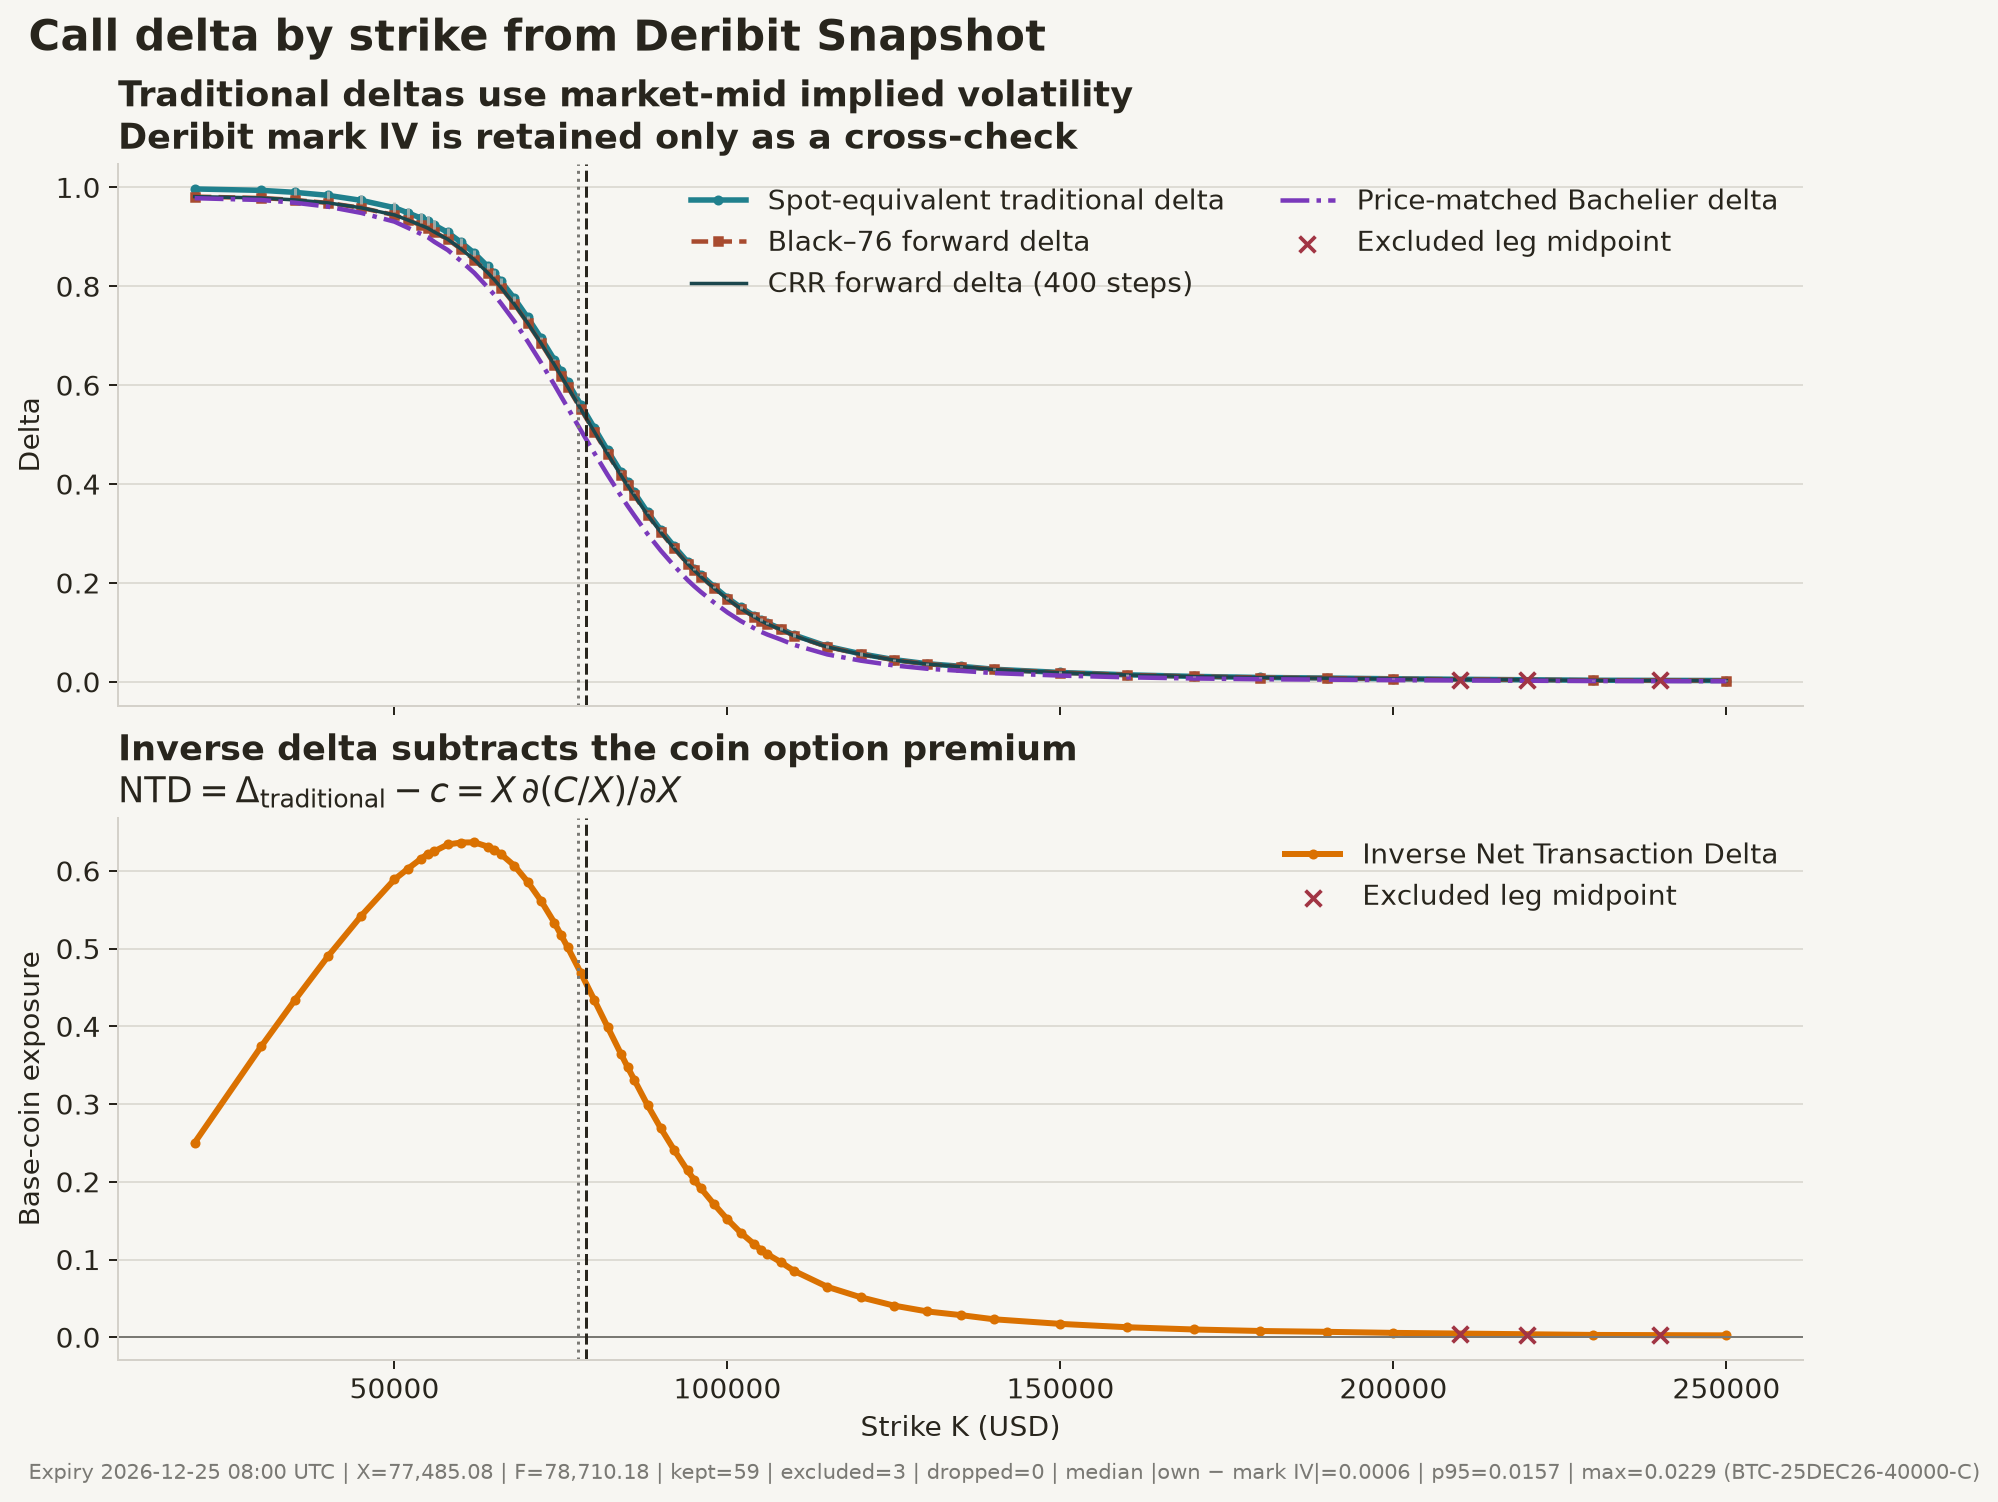
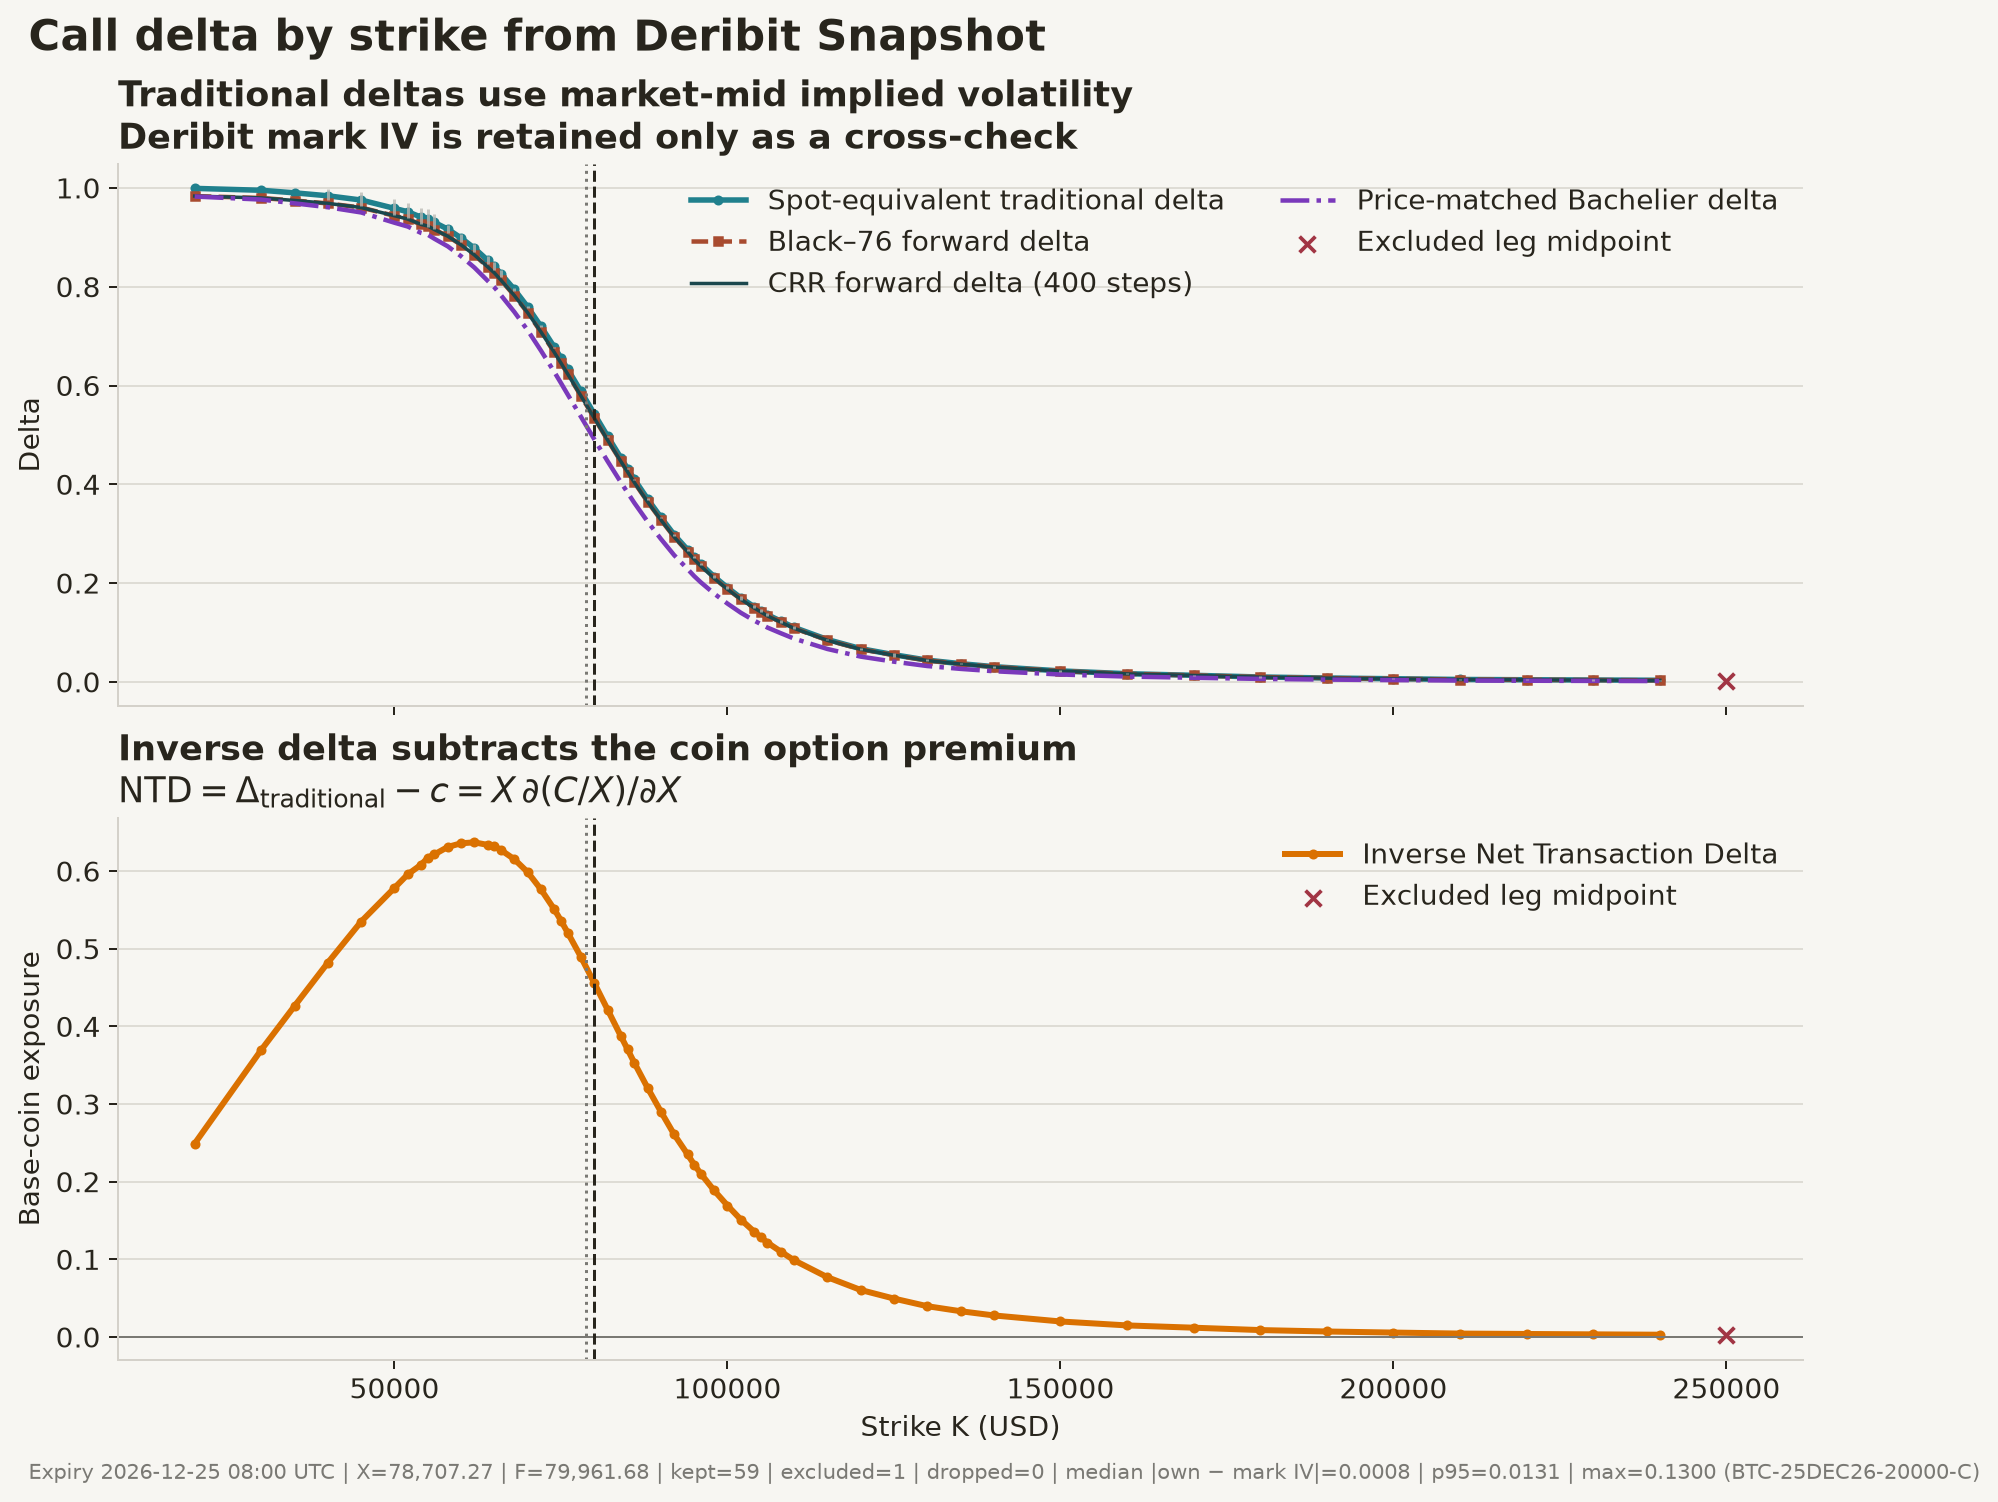
M2

diff --git a/deribit/segmentation.py b/deribit/segmentation.py
@@ -298,21 +298,37 @@ class LiquidityGroupMetrics:
 
 def build_liquidity_segmentation(
     evaluated_pairs: Sequence[EvaluatedPair],
+    expiry_forwards: Sequence[ExpiryForward],
 ) -> tuple[LiquidityGroupMetrics, ...]:
-    """Segment all pairs cross-sectionally by snapshot-relative liquidity groups."""
+    """Segment all pairs cross-sectionally by snapshot-relative liquidity groups with residuals."""
     if not evaluated_pairs:
         return ()
 
+    forward_by_expiry = {
+        (
+            expiry.underlying_index,
+            expiry.expiration_timestamp,
+        ): expiry.implied_forward
+        for expiry in expiry_forwards
+    }
+
+    missing_volume = []
     zero_vol = []
     pos_vol = []
     for item in evaluated_pairs:
         vol = observed_pair_sum(item.pair.call.volume, item.pair.put.volume)
-        if vol is None or vol == 0.0:
+        if vol is None:
+            missing_volume.append(item)
+        elif vol == 0.0:
             zero_vol.append(item)
         else:
             pos_vol.append((vol, item))
 
-    groups = [("Zero Volume", zero_vol)]
+    groups = []
+    if missing_volume:
+        groups.append(("Missing Volume Data", missing_volume))
+    if zero_vol:
+        groups.append(("Zero Observed Volume", zero_vol))
 
     if pos_vol:
         pos_vol.sort(key=lambda x: x[0])
@@ -335,16 +351,20 @@ def build_liquidity_segmentation(
         if count == 0:
             continue
         eligible = [item for item in items if item.diagnostic_eligible]
-        
+
         spreads = [
             s for item in items
             for s in (relative_spread(item.pair.call), relative_spread(item.pair.put))
             if s is not None
         ]
-        residuals = [
-            abs(item.point.forward_mid - item.pair.call.index_price) # baseline or ref
-            for item in eligible if item.point.forward_mid is not None
-        ]
+
+        residuals = []
+        for item in eligible:
+            key = (item.pair.underlying_index, item.pair.expiration_timestamp)
+            ref_fwd = forward_by_expiry.get(key)
+            if ref_fwd is not None and item.point.forward_mid is not None:
+                residuals.append(abs(item.point.forward_mid - ref_fwd))
+
         widths = [
             item.point.synthetic_buy_forward - item.point.synthetic_sell_forward
             for item in items

diff --git a/benchmarks/forward_curve_plot.py b/benchmarks/forward_curve_plot.py
@@ -7,7 +7,7 @@ from pathlib import Path
 import matplotlib.dates as mdates
 import matplotlib.pyplot as plt
 import numpy as np
-from benchmarks.chain_report import format_accounting_report
+from benchmarks.chain_report import format_accounting_report, format_expiry_comparison_table
 from deribit.config import SnapshotUniversalConfig
 from deribit.forward_curve import *
 from deribit.forwards import BasisStatus
@@ -315,6 +315,24 @@ def plot_forward_curve(
         figure.savefig(output, dpi=180, bbox_inches="tight")
         plt.close(figure)
 
+
+def print_snapshot_provenance(snapshot: dict) -> None:
+    opt_ns = snapshot.get("options", {}).get("received_at_ns")
+    fut_ns = snapshot.get("futures", {}).get("received_at_ns")
+    idx_ns = snapshot.get("index", {}).get("received_at_ns")
+
+    print("\n=== SNAPSHOT PROVENANCE & TIMING ===")
+    if opt_ns and fut_ns and idx_ns:
+        diff_ms = (fut_ns - opt_ns) / 1_000_000.0
+        window_ms = (max(opt_ns, fut_ns, idx_ns) - min(opt_ns, fut_ns, idx_ns)) / 1_000_000.0
+        print(f"Options Summary Received: {opt_ns}")
+        print(f"Futures Summary Received: {fut_ns}")
+        print(f"Options-to-Futures Delta: {diff_ms:+.2f} ms")
+        print(f"Total Snapshot Capture Window: {window_ms:.2f} ms")
+    else:
+        print("Timestamp provenance metadata incomplete in snapshot payload.")
+
+
 def parse_args() -> argparse.Namespace:
     parser = argparse.ArgumentParser(
         description="Build and plot an inverse-option forward curve."
@@ -351,7 +369,9 @@ if __name__ == "__main__":
         raise SystemExit(f"Snapshot {snapshot_id} does not exist")
 
     result = build_forward_curve(snapshot)
+    print_snapshot_provenance(snapshot)
     print("\n" + format_accounting_report(result))
+    print("\n" + format_expiry_comparison_table(result))
 
     print("\n=== MONEYNESS SEGMENTATION (ALL EXPIRIES) ===")
     for expiry_forward in result.expiry_forwards:
@@ -362,7 +382,7 @@ if __name__ == "__main__":
         print(f"\nExpiry: {expiry_forward.underlying_index}")
         print(format_moneyness_table(metrics))
 
-    liq_metrics = build_liquidity_segmentation(result.evaluated_pairs)
+    liq_metrics = build_liquidity_segmentation(result.evaluated_pairs, result.expiry_forwards)
     if liq_metrics:
         print("\n=== LIQUIDITY GROUP SEGMENTATION ===")
         print(

diff --git a/benchmarks/chain_report.py b/benchmarks/chain_report.py
@@ -51,3 +51,45 @@ def format_accounting_report(result: ForwardCurveResult) -> str:
         lines.append(f"{fc.reason:<30} {fc.pair_count:<8} {fc.fraction:.2%}      {impact:<25}")
 
     return "\n".join(lines)
+
+def format_expiry_comparison_table(result: ForwardCurveResult) -> str:
+    lines = [
+        "\n=== EXPIRY FORWARD VS FUTURE COMPARISON TABLE ===",
+        f"{'Expiry':<16} {'Pairs':<5} {'Opt Fwd':<10} {'Fut Bid':<10} {'Fut Mid':<10} "
+        f"{'Fut Mark':<10} {'Fut Ask':<10} {'Bps(Mid)':<9} {'Bps(Mark)':<10} "
+        f"{'MAD':<7} {'Status':<18}",
+        "-" * 115,
+    ]
+
+    for comp in result.comparisons:
+        ef = next(
+            f for f in result.expiry_forwards
+            if (f.underlying_index, f.expiration_timestamp) == (comp.underlying_index, comp.expiration_timestamp)
+        )
+
+        fut_mid = (
+            0.5 * (comp.future_bid + comp.future_ask)
+            if comp.future_bid is not None and comp.future_ask is not None and comp.future_bid <= comp.future_ask
+            else None
+        )
+
+        basis_mid_bps = (
+            10_000.0 * (comp.implied_forward / fut_mid - 1.0)
+            if fut_mid is not None
+            else None
+        )
+
+        mid_str = f"{fut_mid:,.1f}" if fut_mid is not None else "N/A"
+        mark_str = f"{comp.future_mark:,.1f}" if comp.future_mark is not None else "N/A"
+        bid_str = f"{comp.future_bid:,.1f}" if comp.future_bid is not None else "N/A"
+        ask_str = f"{comp.future_ask:,.1f}" if comp.future_ask is not None else "N/A"
+        bps_mid_str = f"{basis_mid_bps:+.1f}" if basis_mid_bps is not None else "N/A"
+        bps_mark_str = f"{comp.basis_bps:+.1f}" if comp.basis_bps is not None else "N/A"
+
+        lines.append(
+            f"{comp.underlying_index:<16} {ef.pair_count:<5} {comp.implied_forward:<10,.1f} "
+            f"{bid_str:<10} {mid_str:<10} {mark_str:<10} {ask_str:<10} "
+            f"{bps_mid_str:<9} {bps_mark_str:<10} {ef.dispersion_mad:<7.1f} {comp.status:<18}"
+        )
+
+    return "\n".join(lines)
